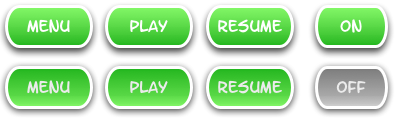
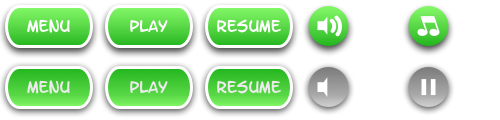
Updated game/spell btns
Aggiornati sia gli sprites che il codice per selezionarli

diff --git a/js/game.js b/js/game.js
@@ -72,7 +72,6 @@
 		
 		//Player
 		game.player = new CAAT.Mage( );
-		//TODO
 		game.player.add();
 		game.killCount = 0;
 		
@@ -80,33 +79,31 @@
 		game.spells = [];
 		
 		//UI - Spell Buttons
-		var btn = [];
-		btn[0] = new CAAT.Foundation.Actor( ).
-			setAsButton( 
-				new CAAT.Foundation.SpriteImage( ).initialize( director.getImage( 'icons' ), 1, 4 ),
-				1, 1, 1, 1, 
-				function( button ){ game.player.notify( spellIndex-- ); } ).
-			setLocation( 50, 530 );
-			
-		btn[1] = new CAAT.Foundation.Actor( ).
-			setAsButton( 
-				new CAAT.Foundation.SpriteImage( ).initialize( director.getImage( 'icons' ), 1, 4 ),
-				2, 2, 2, 2,
-				function( button ){ game.player.notify( spellIndex++ ); } ).
-			setLocation( 250, 530 );
+		game.UI.spellsBtn = [];
+		for ( var i=0; i < game.spellList.length; i++ ) {
+			game.UI.spellsBtn[i] = new CAAT.Foundation.Actor( ).
+				setLocation( 30+i*120, director.height-70 ).
+				// setAsButton( 
+				// 	game.UI.icons,
+				// 	i, i, i+5, i+10, 
+				// 	loopHelper( i ) );
 				
-		btn[2] = new CAAT.Foundation.Actor( ).
-			setAsButton( 
-				new CAAT.Foundation.SpriteImage( ).initialize( director.getImage( 'icons' ), 1, 4 ),
-				0, 0, 0, 0,
-				function( button ){
-					new CAAT.Enemy( ).add( game.enemiesList[ roll( 1, game.enemiesList.length ) -1 ] );
-				} ).
-			setLocation( 650, 530 );
-
-		gameScene.addChild( btn[0] );
-		gameScene.addChild( btn[1] );
-		gameScene.addChild( btn[2] );
+				setBackgroundImage( game.UI.icons ).
+				enableEvents( true ).
+				setSpriteIndex( i );
+				
+			game.UI.spellsBtn[i].mouseDown = loopHelper( i );
+			// function( ev ) { loopHelper( i ); };
+			gameScene.addChild( game.UI.spellsBtn[i] );
+		};
+		
+		function loopHelper( i ) {
+			return function( button ) {
+				CAAT.log( "[Game] you choose this spell: ",game.spellList[i] )
+				spellIndex = i;
+				game.refreshSpellsBtn();
+			}
+		}
 		
 		// Pause game Button
 		gameScene.addChild(
@@ -115,10 +112,11 @@
 				setPositionAnchor( 0.5, 0.5 ).
 				setAsButton( 
 					game.UI.btns,
-					0, 0, 4, 4, 
+					0, 0, 5, 5, 
 					function( button ){ 
 						if( _DEBUG ) CAAT.log('[Game] Paused' );
 						// director.switchToScene( 0, 2000, false, true );
+						//TODO passare a menu slideTo( 2, ... )
 						director.easeInOut(
 							0,
 							CAAT.Foundation.Scene.EASE_TRANSLATE,
@@ -138,13 +136,13 @@
 		gameScene.addChild( new CAAT.Foundation.Actor( ).
 			setAsButton( 
 				game.UI.btns,
-				3, 3, 7, 7, 
+				3, 3, 8, 8, 
 				function( button ){ 
 					CAAT.log('[Main] Game BRUTALLY Stopped = '+!gameScene.paused )
 					gameScene.setPaused( !gameScene.paused );
 				} ).
-			setPositionAnchor( 0.5, 0 ).
-			setLocation( 20, 40 )
+			setPositionAnchor( 0, 0 ).
+			setLocation( 40, 40 )
 		);
 		
 		// Main string
@@ -234,6 +232,8 @@
 		}
 		
 		//UPDATE UI
+		game.refreshSpellsBtn();
+		
 		game.UI.hpBar.setSize( game.player.hp / 100 * _MAX_BAR_WIDTH, _MAX_BAR_HEIGHT ).
 			setLocation( 500 - ( game.player.hp - 100 ) / 100 * _MAX_BAR_WIDTH, 9 );
 			
@@ -259,5 +259,15 @@
 			endgameScene.label.setText( "SCEMO, hai perso! ci godo!" );
 		}
 	}
-
+	
+	game.refreshSpellsBtn = function( ) {
+		
+		for ( var id=0; id < game.UI.spellsBtn.length; id++ ) {
+			if( id === spellIndex )
+				game.UI.spellsBtn[id].setSpriteIndex( id+5 );
+			else
+				game.UI.spellsBtn[id].setSpriteIndex( id );
+		};
+	}
+	
 } )( );

diff --git a/js/menu.js b/js/menu.js
@@ -27,9 +27,10 @@
 		// UI - Strings and Bars
 		game.UI = {
 			emptySprite :	new CAAT.Foundation.SpriteImage( ).initialize( director.getImage( 'empty' ), 1, 1 ),
-			btns :			new CAAT.Foundation.SpriteImage( ).initialize( director.getImage( 'game-btns' ), 2, 4 ),
+			btns :			new CAAT.Foundation.SpriteImage( ).initialize( director.getImage( 'game-btns' ), 2, 5 ),
 			emptyBar :		new CAAT.Foundation.SpriteImage( ).initialize( director.getImage( 'empty-bar' ), 1, 1 ),
-			listBtns :		new CAAT.Foundation.SpriteImage( ).initialize( director.getImage( 'list-btns' ), 2, 4 )
+			listBtns :		new CAAT.Foundation.SpriteImage( ).initialize( director.getImage( 'list-btns' ), 2, 4 ),
+			icons: 			new CAAT.Foundation.SpriteImage( ).initialize( director.getImage( 'icons' ), 3, 5 )
 		};
 		
 
@@ -55,7 +56,7 @@
 				setPositionAnchor( 0.5, 0.5 ).
 				setAsButton( 
 					game.UI.btns,
-					1, 1, 5, 5, 
+					1, 1, 6, 6, 
 					function( button ){ 
 						if( _DEBUG ) CAAT.log('[Menu] Play (List)' );
 						game.load();
@@ -71,7 +72,7 @@
 				setFont( game.options.font ).
 				setTextFillStyle( "red" ).
 				setTextAlign('right').
-				setLocation( director.width-80, 250 ).
+				setLocation( director.width-80, 300 ).
 				setAsButton( 
 					null, 1, 2, 3, 4, 
 					function( button ){ 
@@ -88,7 +89,7 @@
 				setFont( game.options.font ).
 				setTextFillStyle( "red" ).
 				setTextAlign('right').
-				setLocation( director.width-80, 350 ).
+				setLocation( director.width-80, 400 ).
 				setAsButton( 
 					null, 1, 2, 3, 4, 
 					function( button ){ 
@@ -104,7 +105,7 @@
 			setFont( game.options.font ).
 			setTextFillStyle( "red" ).
 			setTextAlign('right').
-			setLocation( director.width-80, 300 ).
+			setLocation( director.width-80, 200 ).
 			setVisible( false ).
 			setAsButton( 
 				null, 1, 2, 3, 4, 

diff --git a/js/spells.js b/js/spells.js
@@ -152,7 +152,7 @@ game.spellBook = {
 		level: 0
 	}
 };
-game.spellList = [ 'magic missile', 'fireball', 'lightning' ];
+game.spellList = [ 'magic missile', 'fireball', 'lightning', 'abc', 'def' ];
 
 //NOTA gia' meglio ma non mi garantisce l'ordine
 // game.spellList = Object.keys( game.spellBook );
